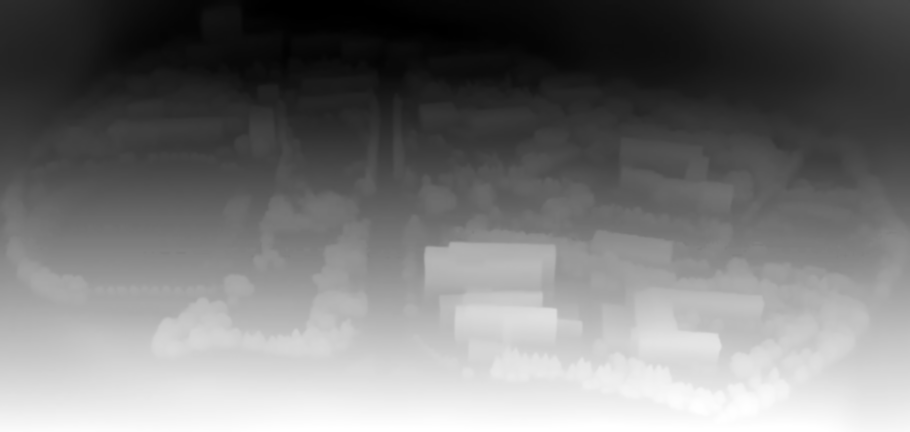
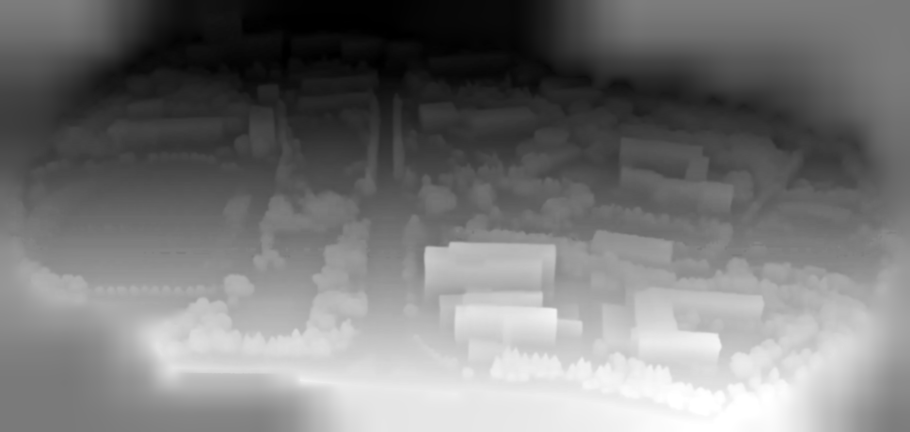
2.5D map: stronger relief and straightened bottom-left road
- Depth edges no longer pick up background values: outer 6px of the
  campus is discarded and the outside is filled from the interior
- Building/tree relief boosted 1.8x relative to the ground slope;
  depthRange raised to 850 to keep the ground tilt similar
- The source art draws the bottom-left road arched upward (~15px); the
  display image, depth map and id map are warped together to straighten
  it. The original map_image.png is unchanged.

Claude-Session: https://claude.ai/code/session_01QyUschkezPNteRQgoBSBiz

diff --git a/src/components/mapAssets.js b/src/components/mapAssets.js
@@ -1,13 +1,14 @@
 import { setDownloadProgress } from './downloadProgress.js'
 
 // 2.5D 지도에 필요한 파일
-// - image: 캠퍼스 그림 (디자이너 제공 map_image.png 를 WebP로 압축)
+// - image: 캠퍼스 그림 (디자이너 제공 map_image.png 를 WebP로 압축,
+//          왼쪽 아래 도로가 위로 휘어 그려진 부분만 곧게 보정)
 // - depth: 깊이 지도 (흰색 = 가까움, 검은색 = 멂)
 //          디자이너가 Depth Anything V2로 만든 map_depth_ai.webp(색 표시)를 흑백으로 변환한 파일
 // - ids:   건물 위치 지도 (픽셀 값 1~5 = BUILDINGS 순서, 0 = 건물 아님)
 const BASE = `${import.meta.env.BASE_URL}images/`
 const FILES = [
-  { key: 'image', url: `${BASE}map_image.webp`, bytes: 529000 },
+  { key: 'image', url: `${BASE}map_image.webp`, bytes: 528944 },
   { key: 'depth', url: `${BASE}map_depth.png`, bytes: 56000 },
   { key: 'ids', url: `${BASE}map_ids.png`, bytes: 2000 },
 ]

diff --git a/src/components/MapScene.jsx b/src/components/MapScene.jsx
@@ -24,7 +24,7 @@ const deg = MathUtils.degToRad
 const MAP = {
   fov: 30,
   cameraDistance: 3600, // 그림 픽셀 단위
-  depthRange: 650, // 깊이 지도 흰색~검은색의 실제 거리 (클수록 입체감 ↑, 늘어짐 ↑)
+  depthRange: 850, // 깊이 지도 흰색~검은색의 실제 거리 (클수록 입체감 ↑, 늘어짐 ↑)
   segments: [360, 171], // 그림을 나눈 격자 수 (클수록 높낮이가 촘촘)
   azimuthRange: deg(8), // 좌우 회전 ±8°
   polarRange: deg(5), // 상하 회전 ±5°

diff --git a/README.md b/README.md
@@ -16,7 +16,8 @@ npm run dev     # 개발 서버 → http://localhost:5173
 ```
 public/
   images/          Figma에서 내보낸 원본 이미지
-    map_image.png  캠퍼스 지도 원본 (화면에는 압축한 map_image.webp 사용)
+    map_image.png  캠퍼스 지도 원본 (화면에는 압축한 map_image.webp 사용, 왼쪽 아래 휜 도로만 곧게 보정)
+    map_depth_ai.webp  Depth Anything V2 결과 원본 (색 표시)
     map_depth.png  깊이 지도 (흰색 = 가까움). 더 정확한 지도로 같은 이름으로 교체 가능
     map_ids.png    건물 위치 지도 (픽셀 값 1~5 = data/buildings.js 순서)
     deco/          Decorations.png를 요소별로 자른 이미지 (별·반짝이·발바닥)
